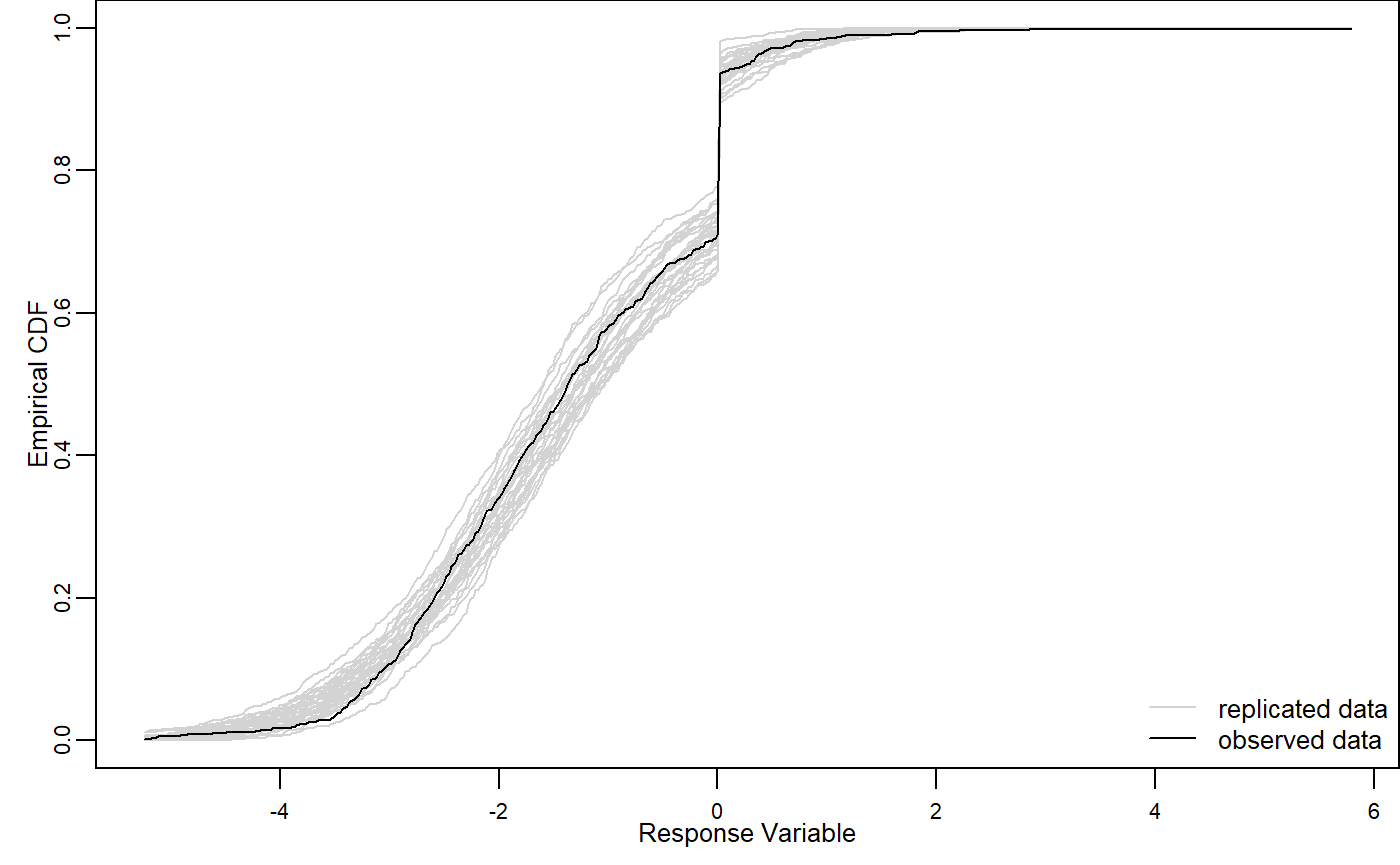
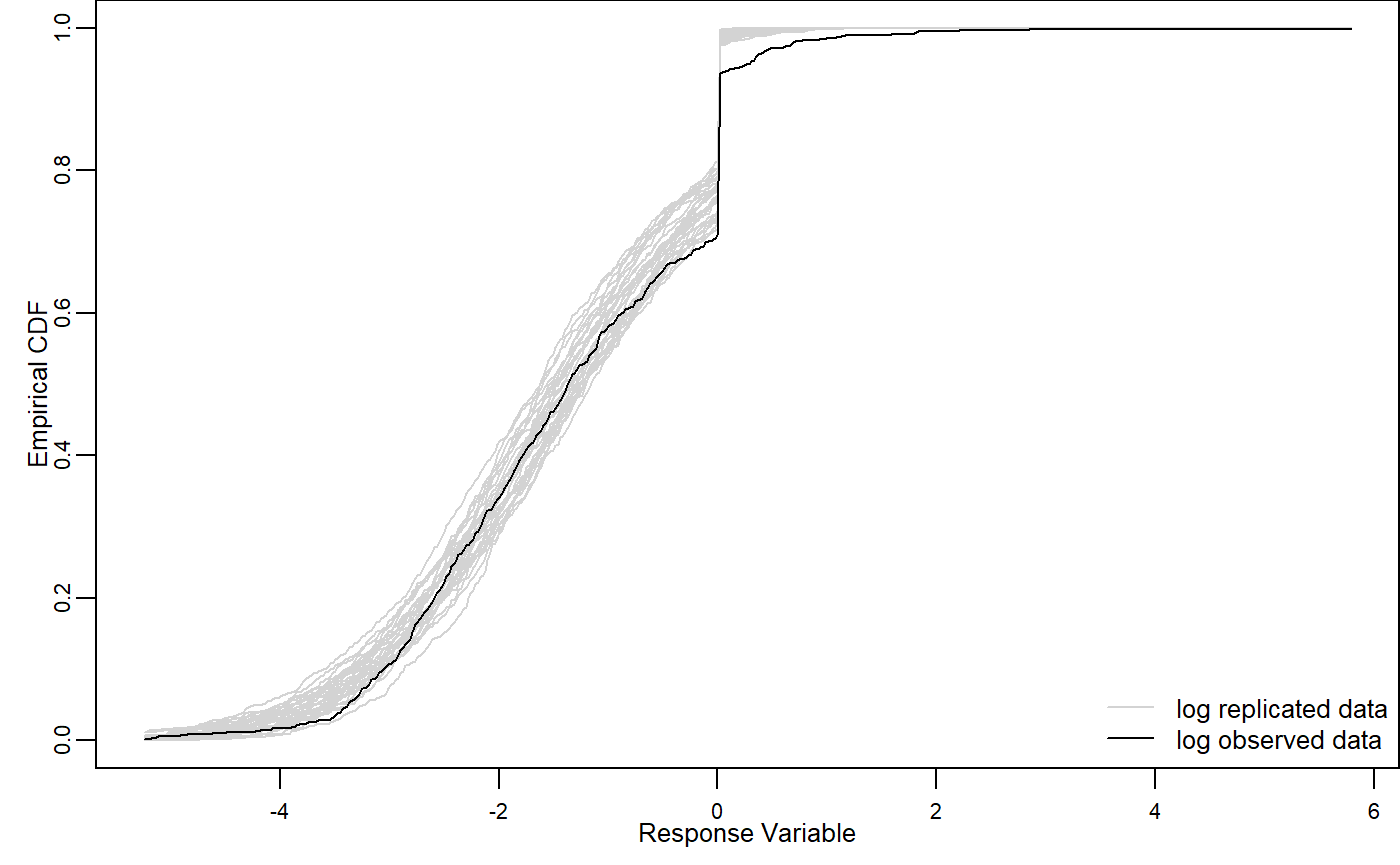
updates

Changed region(s): [[0.1536, 0.1873, 0.5221, 0.8428], [0.4914, 0.0312, 0.645, 0.1249], [0.8293, 0.8116, 0.86, 0.874]]

diff --git a/docs/articles/ZeroInflated_and_TwoPart_Models.html b/docs/articles/ZeroInflated_and_TwoPart_Models.html
@@ -98,7 +98,7 @@
       <h1>Zero-Inflated and Two-Part Mixed Effects Models</h1>
                         <h4 class="author">Dimitris Rizopoulos</h4>
             
-            <h4 class="date">2018-10-31</h4>
+            <h4 class="date">2018-11-01</h4>
       
       <small class="dont-index">Source: <a href="https://github.com/drizopoulos/GLMMadaptive/blob/master/vignettes/ZeroInflated_and_TwoPart_Models.Rmd"><code>vignettes/ZeroInflated_and_TwoPart_Models.Rmd</code></a></small>
       <div class="hidden name"><code>ZeroInflated_and_TwoPart_Models.Rmd</code></div>
@@ -425,11 +425,13 @@ y &lt;-<span class="st"> </span>DF<span class="op">$</span>y
 y[y <span class="op">&gt;</span><span class="st"> </span><span class="dv">0</span>] &lt;-<span class="st"> </span><span class="kw">log</span>(y[y <span class="op">&gt;</span><span class="st"> </span><span class="dv">0</span>])
 x_vals &lt;-<span class="st"> </span><span class="kw">seq</span>(<span class="kw">min</span>(y), <span class="kw">max</span>(y), <span class="dt">length.out =</span> <span class="dv">500</span>)
 out &lt;-<span class="st"> </span><span class="kw"><a href="../reference/methods.html">simulate</a></span>(km2, <span class="dt">nsim =</span> <span class="dv">30</span>, <span class="dt">acount_MLEs_var =</span> <span class="ot">TRUE</span>)
+ind &lt;-<span class="st"> </span>out <span class="op">&gt;</span><span class="st"> </span><span class="kw">sqrt</span>(.Machine<span class="op">$</span>double.eps)
+out[ind] &lt;-<span class="st"> </span><span class="kw">log</span>(out[ind])
 rep_y &lt;-<span class="st"> </span><span class="kw">apply</span>(out, <span class="dv">2</span>, <span class="cf">function</span> (x, x_vals) <span class="kw">ecdf</span>(x)(x_vals), <span class="dt">x_vals =</span> x_vals)
 <span class="kw">matplot</span>(x_vals, rep_y, <span class="dt">type =</span> <span class="st">"l"</span>, <span class="dt">lty =</span> <span class="dv">1</span>, <span class="dt">col =</span> <span class="st">"lightgrey"</span>, 
         <span class="dt">xlab =</span> <span class="st">"Response Variable"</span>, <span class="dt">ylab =</span> <span class="st">"Empirical CDF"</span>)
 <span class="kw">lines</span>(x_vals, <span class="kw">ecdf</span>(y)(x_vals))
-<span class="kw">legend</span>(<span class="st">"bottomright"</span>, <span class="kw">c</span>(<span class="st">"replicated data"</span>, <span class="st">"observed data"</span>), <span class="dt">lty =</span> <span class="dv">1</span>, 
+<span class="kw">legend</span>(<span class="st">"bottomright"</span>, <span class="kw">c</span>(<span class="st">"log replicated data"</span>, <span class="st">"log observed data"</span>), <span class="dt">lty =</span> <span class="dv">1</span>, 
        <span class="dt">col =</span> <span class="kw">c</span>(<span class="st">"lightgrey"</span>, <span class="st">"black"</span>), <span class="dt">bty =</span> <span class="st">"n"</span>, <span class="dt">cex =</span> <span class="fl">0.8</span>)</code></pre></div>
 <p><img src="ZeroInflated_and_TwoPart_Models_files/figure-html/unnamed-chunk-11-1.png" width="700"></p>
 </div>

diff --git a/docs/articles/Custom_Models.html b/docs/articles/Custom_Models.html
@@ -98,7 +98,7 @@
       <h1>Custom Models</h1>
                         <h4 class="author">Dimitris Rizopoulos</h4>
             
-            <h4 class="date">2018-10-31</h4>
+            <h4 class="date">2018-11-01</h4>
       
       <small class="dont-index">Source: <a href="https://github.com/drizopoulos/GLMMadaptive/blob/master/vignettes/Custom_Models.Rmd"><code>vignettes/Custom_Models.Rmd</code></a></small>
       <div class="hidden name"><code>Custom_Models.Rmd</code></div>
@@ -154,7 +154,7 @@ dd<span class="op">$</span>y &lt;-<span class="st"> </span><span class="kw">rnbi
                         <span class="dt">initial_values =</span> <span class="kw">list</span>(<span class="st">"betas"</span> =<span class="st"> </span><span class="kw">poisson</span>()))
 )
 <span class="co">#&gt;    user  system elapsed </span>
-<span class="co">#&gt;    3.81    0.00    3.81</span>
+<span class="co">#&gt;    3.85    0.00    3.86</span>
 
 fm1
 <span class="co">#&gt; </span>
@@ -227,7 +227,7 @@ fm1
                         <span class="dt">initial_values =</span> <span class="kw">list</span>(<span class="st">"betas"</span> =<span class="st"> </span><span class="kw">poisson</span>()))
 )
 <span class="co">#&gt;    user  system elapsed </span>
-<span class="co">#&gt;    1.37    0.00    1.38</span>
+<span class="co">#&gt;    1.35    0.00    1.34</span>
 
 fm2
 <span class="co">#&gt; </span>

diff --git a/docs/articles/Multiple_Comparisons.html b/docs/articles/Multiple_Comparisons.html
@@ -98,7 +98,7 @@
       <h1>Multiple Comparisons for MixMod Objects</h1>
                         <h4 class="author">Dimitris Rizopoulos</h4>
             
-            <h4 class="date">2018-10-31</h4>
+            <h4 class="date">2018-11-01</h4>
       
       <small class="dont-index">Source: <a href="https://github.com/drizopoulos/GLMMadaptive/blob/master/vignettes/Multiple_Comparisons.Rmd"><code>vignettes/Multiple_Comparisons.Rmd</code></a></small>
       <div class="hidden name"><code>Multiple_Comparisons.Rmd</code></div>

diff --git a/docs/articles/Dynamic_Predictions.html b/docs/articles/Dynamic_Predictions.html
@@ -98,7 +98,7 @@
       <h1>Dynamic Predictions</h1>
                         <h4 class="author">Dimitris Rizopoulos</h4>
             
-            <h4 class="date">2018-10-31</h4>
+            <h4 class="date">2018-11-01</h4>
       
       <small class="dont-index">Source: <a href="https://github.com/drizopoulos/GLMMadaptive/blob/master/vignettes/Dynamic_Predictions.Rmd"><code>vignettes/Dynamic_Predictions.Rmd</code></a></small>
       <div class="hidden name"><code>Dynamic_Predictions.Rmd</code></div>

diff --git a/docs/articles/GLMMadaptive_basics.html b/docs/articles/GLMMadaptive_basics.html
@@ -98,7 +98,7 @@
       <h1>GLMMadaptive Basics</h1>
                         <h4 class="author">Dimitris Rizopoulos</h4>
             
-            <h4 class="date">2018-10-31</h4>
+            <h4 class="date">2018-11-01</h4>
       
       <small class="dont-index">Source: <a href="https://github.com/drizopoulos/GLMMadaptive/blob/master/vignettes/GLMMadaptive_basics.Rmd"><code>vignettes/GLMMadaptive_basics.Rmd</code></a></small>
       <div class="hidden name"><code>GLMMadaptive_basics.Rmd</code></div>

diff --git a/docs/articles/Methods_MixMod.html b/docs/articles/Methods_MixMod.html
@@ -98,7 +98,7 @@
       <h1>Methods for MixMod Objects</h1>
                         <h4 class="author">Dimitris Rizopoulos</h4>
             
-            <h4 class="date">2018-10-31</h4>
+            <h4 class="date">2018-11-01</h4>
       
       <small class="dont-index">Source: <a href="https://github.com/drizopoulos/GLMMadaptive/blob/master/vignettes/Methods_MixMod.Rmd"><code>vignettes/Methods_MixMod.Rmd</code></a></small>
       <div class="hidden name"><code>Methods_MixMod.Rmd</code></div>
